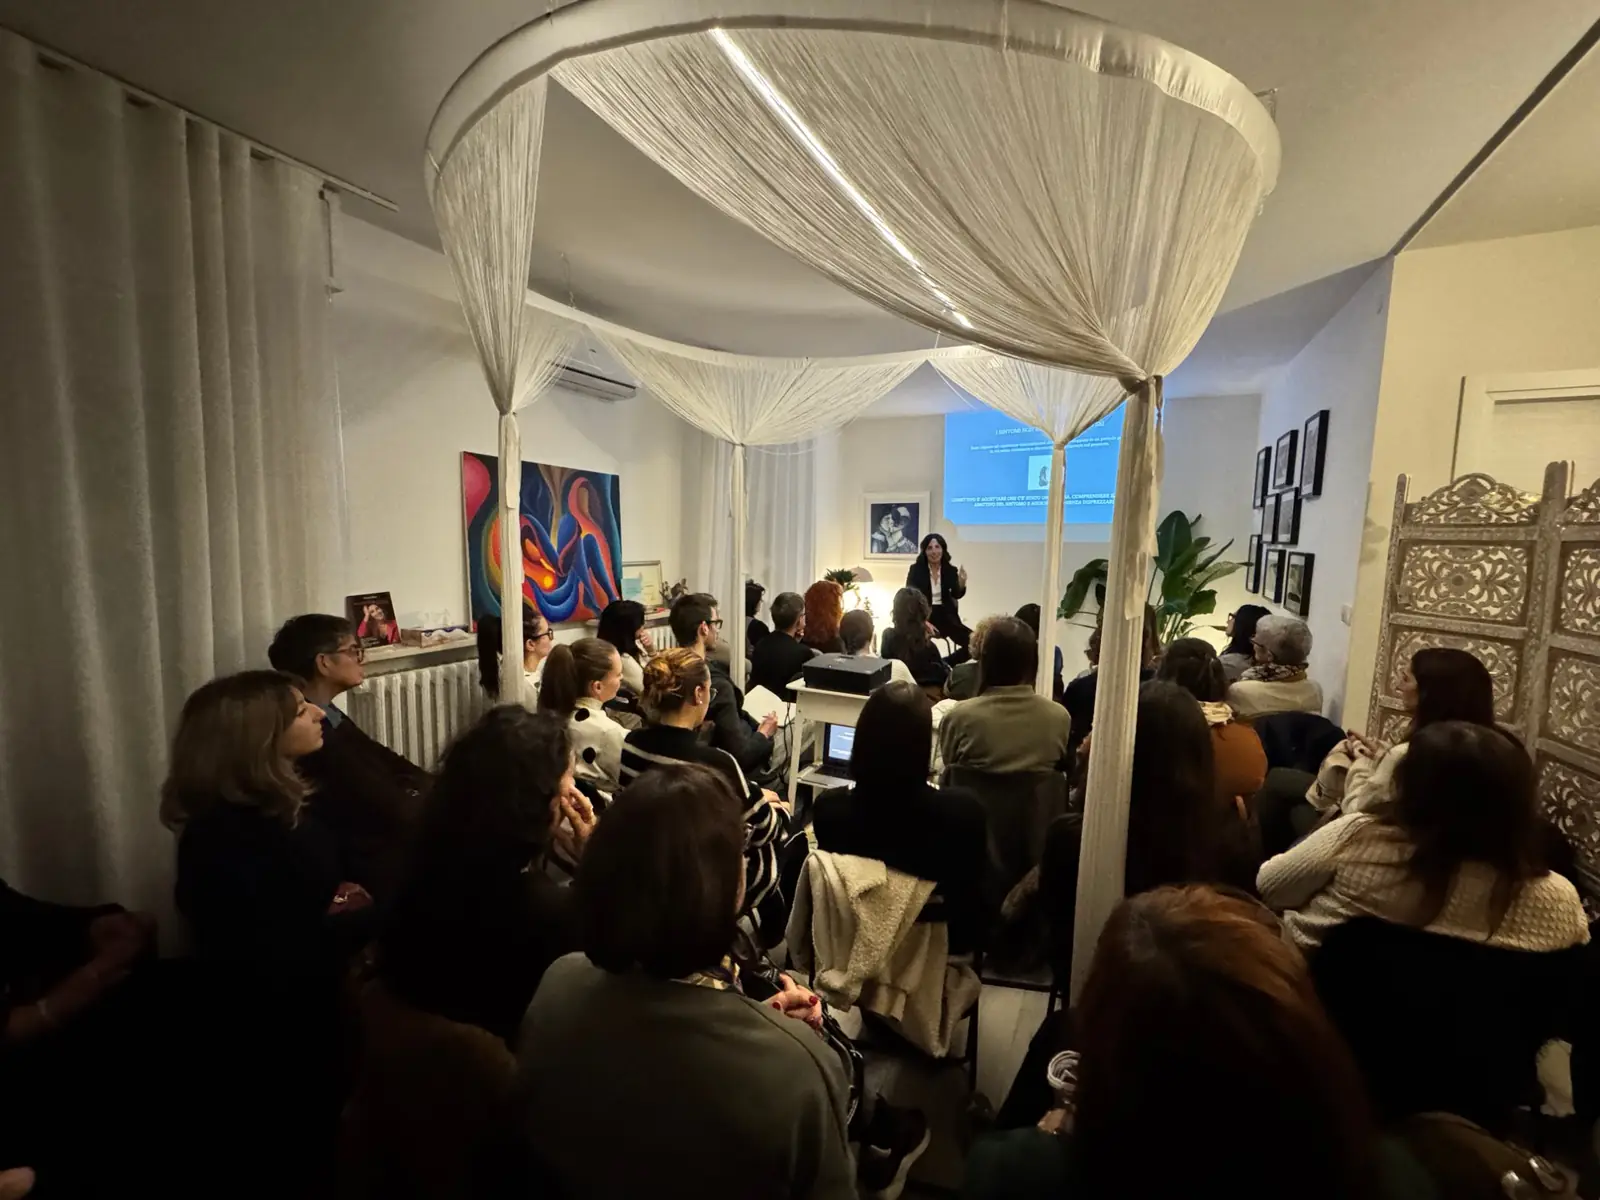
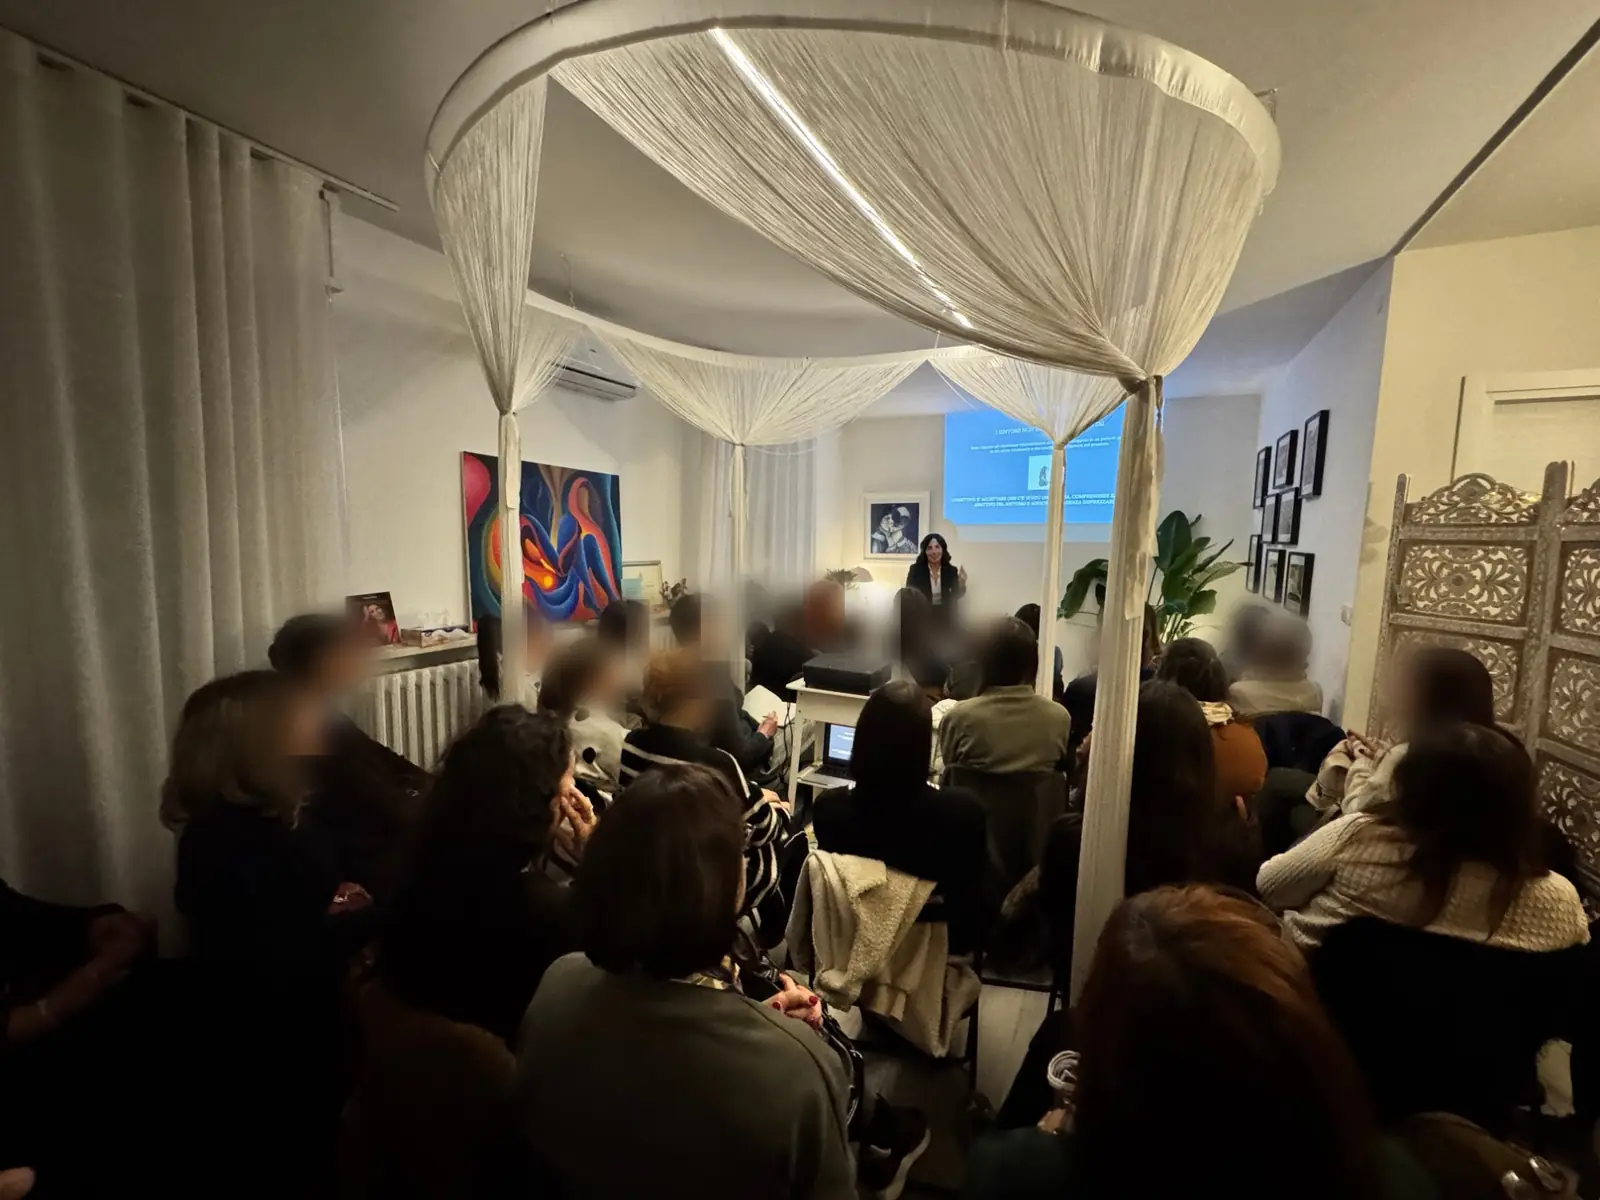
Galleria: volti del pubblico sfocati nella foto della conferenza

diff --git a/index.html b/index.html
@@ -172,7 +172,7 @@
   ]
 }
 </script>
-<link rel="stylesheet" href="styles.css?v=gal3">
+<link rel="stylesheet" href="styles.css?v=gal4">
 </head>
 <body>
 <svg width="0" height="0" style="position:absolute" aria-hidden="true" focusable="false">
@@ -773,7 +773,7 @@
   <p class="lb-count" id="lbCount" aria-live="polite"></p>
 </dialog>
 
-<script src="script.js?v=gal3" defer></script>
-<script src="calendar.js?v=gal3" defer></script>
+<script src="script.js?v=gal4" defer></script>
+<script src="calendar.js?v=gal4" defer></script>
 </body>
 </html>

diff --git a/404.html b/404.html
@@ -18,7 +18,7 @@
 <link rel="icon" type="image/svg+xml" href="assets/favicon.svg">
 <link rel="icon" type="image/png" sizes="32x32" href="assets/favicon-32.png">
 <link rel="apple-touch-icon" href="assets/apple-touch-icon.png">
-<link rel="stylesheet" href="styles.css?v=gal3">
+<link rel="stylesheet" href="styles.css?v=gal4">
 </head>
 <body class="plain">
 <svg width="0" height="0" style="position:absolute" aria-hidden="true" focusable="false">

diff --git a/cookie.html b/cookie.html
@@ -17,7 +17,7 @@
 <link rel="icon" type="image/svg+xml" href="assets/favicon.svg">
 <link rel="icon" type="image/png" sizes="32x32" href="assets/favicon-32.png">
 <link rel="apple-touch-icon" href="assets/apple-touch-icon.png">
-<link rel="stylesheet" href="styles.css?v=gal3">
+<link rel="stylesheet" href="styles.css?v=gal4">
 </head>
 <body class="plain">
 <svg width="0" height="0" style="position:absolute" aria-hidden="true" focusable="false">

diff --git a/privacy.html b/privacy.html
@@ -17,7 +17,7 @@
 <link rel="icon" type="image/svg+xml" href="assets/favicon.svg">
 <link rel="icon" type="image/png" sizes="32x32" href="assets/favicon-32.png">
 <link rel="apple-touch-icon" href="assets/apple-touch-icon.png">
-<link rel="stylesheet" href="styles.css?v=gal3">
+<link rel="stylesheet" href="styles.css?v=gal4">
 </head>
 <body class="plain">
 <svg width="0" height="0" style="position:absolute" aria-hidden="true" focusable="false">
